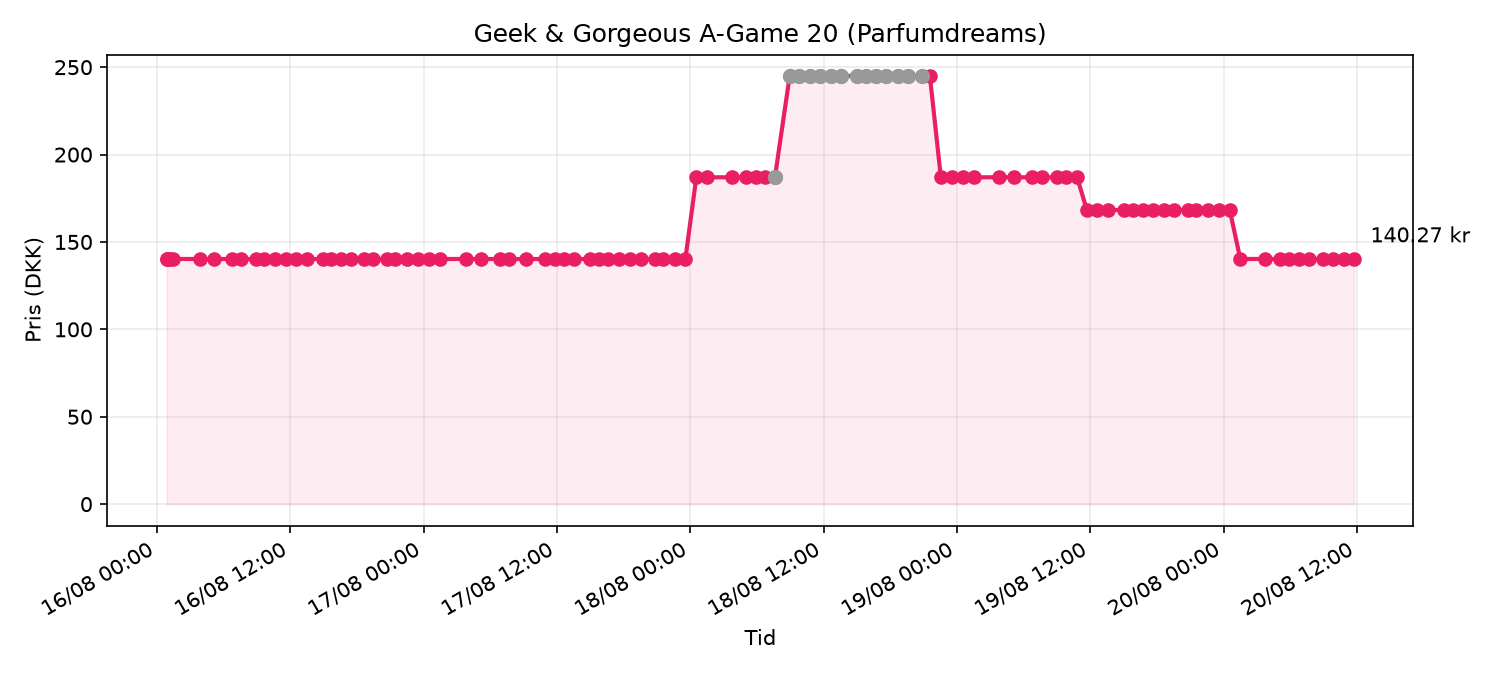
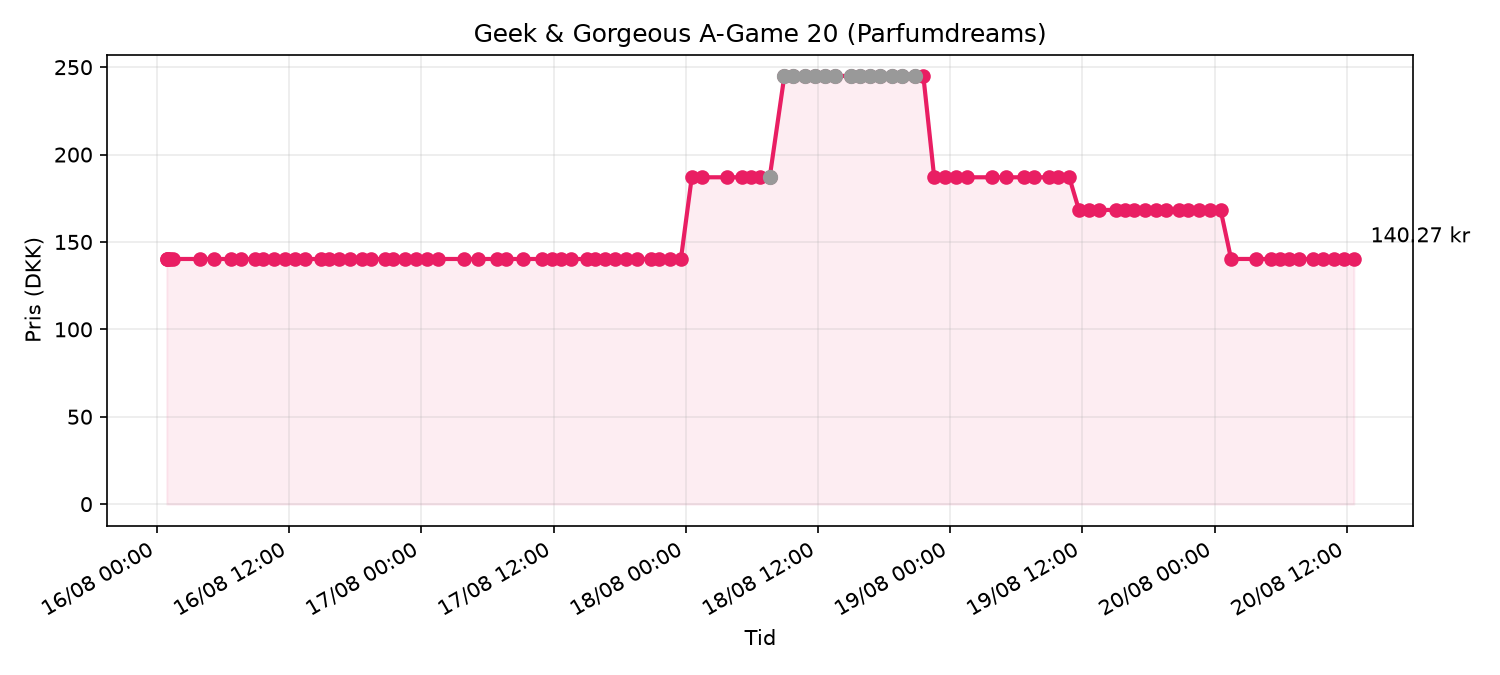
deploy: d5fc25f2d8f03bfc66d87670eb49ec83f711abc0

diff --git a/price_chart.html b/price_chart.html
@@ -13,7 +13,7 @@
 </head>
 <body>
   <h1>Geek & Gorgeous A-Game 20 (Parfumdreams)</h1>
-  <p class="meta">Senest tjekket: 20/08/2026 11:43 · Pris: <strong>140.27 kr</strong> · på lager</p>
+  <p class="meta">Senest tjekket: 20/08/2026 12:38 · Pris: <strong>140.27 kr</strong> · på lager</p>
   
   <p><a href="https://www.parfumdreams.dk/Geek-Gorgeous/Samlinger/101-aktive-stoffer/A-Game-20-Serum/index_137083.aspx?variation=221879">Åbn produkt på Parfumdreams</a></p>
   <img src="price_chart.png" alt="Prisgraf">
